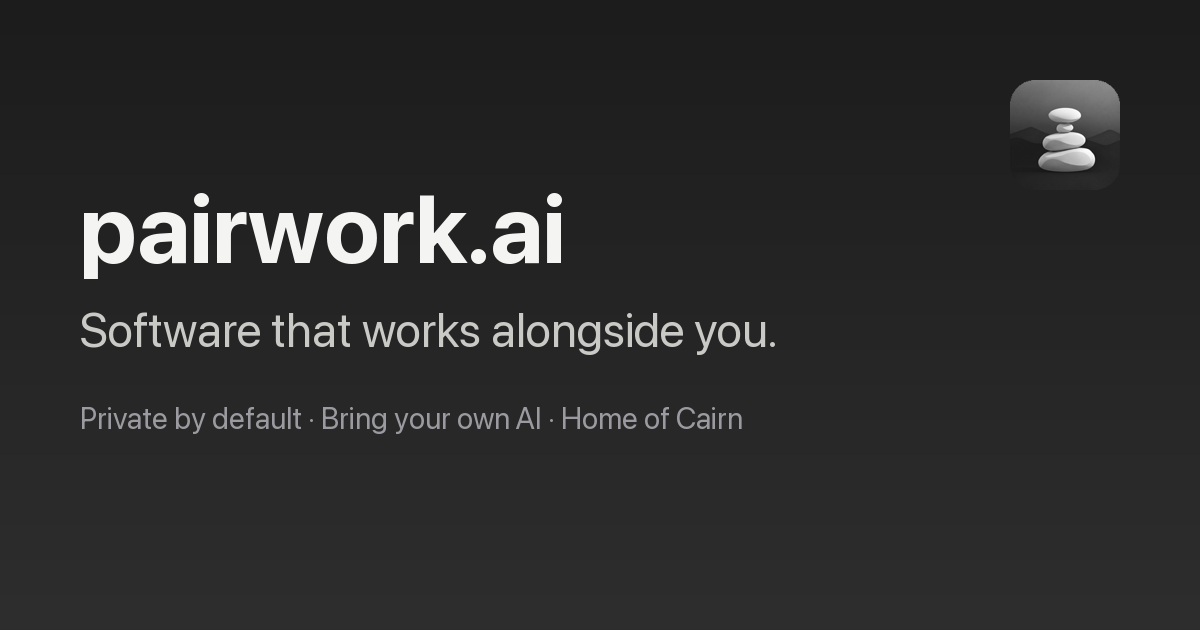
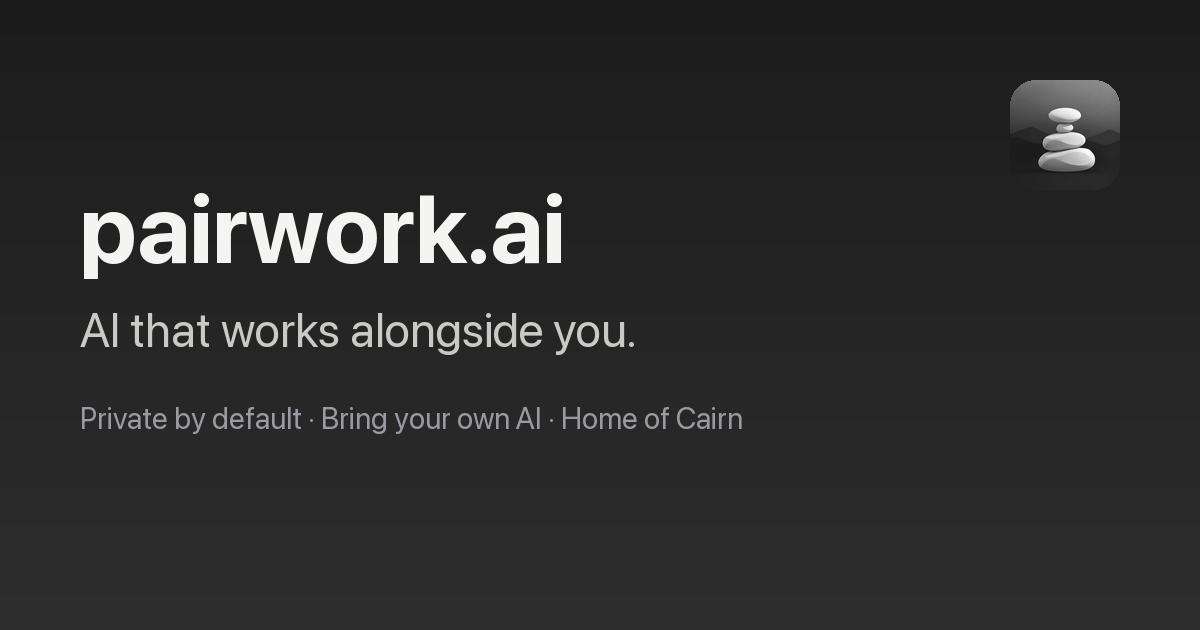
Tagline: AI that works alongside you

Changed region(s): [[0.0617, 0.4825, 0.6475, 0.573]]

diff --git a/index.html b/index.html
@@ -3,12 +3,12 @@
 <head>
 <meta charset="utf-8">
 <meta name="viewport" content="width=device-width, initial-scale=1">
-<title>pairwork.ai — software that works alongside you</title>
+<title>pairwork.ai — AI that works alongside you</title>
 <meta name="description" content="pairwork.ai makes small, private tools that work alongside you. Your data stays yours, and you choose the AI. Home of Cairn Notes for Creators.">
 <link rel="canonical" href="https://pairwork.ai/">
 <meta property="og:type" content="website">
 <meta property="og:url" content="https://pairwork.ai/">
-<meta property="og:title" content="pairwork.ai — software that works alongside you">
+<meta property="og:title" content="pairwork.ai — AI that works alongside you">
 <meta property="og:description" content="Small, private tools that work alongside you. Home of Cairn Notes for Creators.">
 <meta property="og:image" content="https://pairwork.ai/assets/img/og-pairwork.png">
 <meta name="twitter:card" content="summary_large_image">
@@ -25,7 +25,7 @@
 <main>
   <section class="hero"><div class="wrap">
     <p class="eyebrow">pairwork.ai</p>
-    <h1>Software that works<br>alongside you.</h1>
+    <h1>AI that works<br>alongside you.</h1>
     <p class="lede">We build small, focused tools that pair you with AI on real work, without taking your data or your choices away.
       You own what you make. You pick the AI. The tool just helps.</p>
     <div class="actions">
